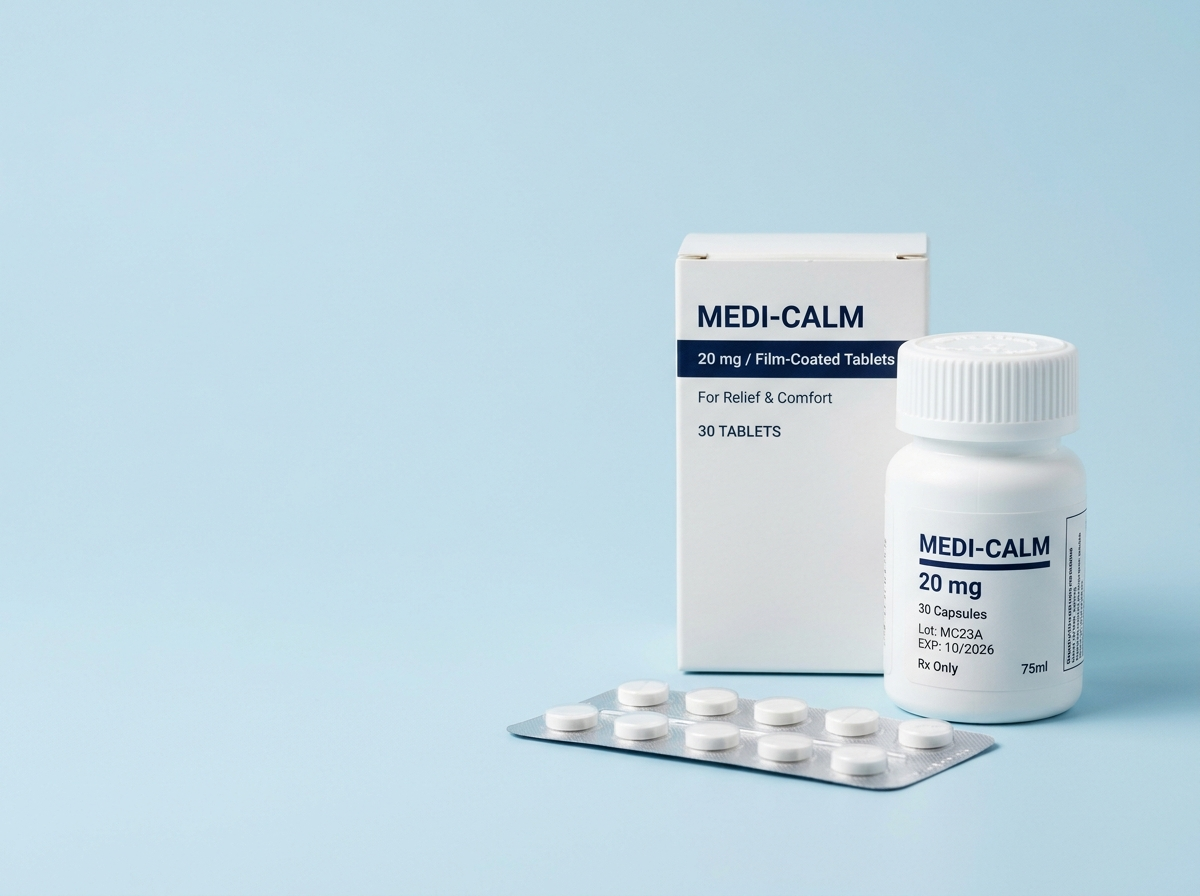
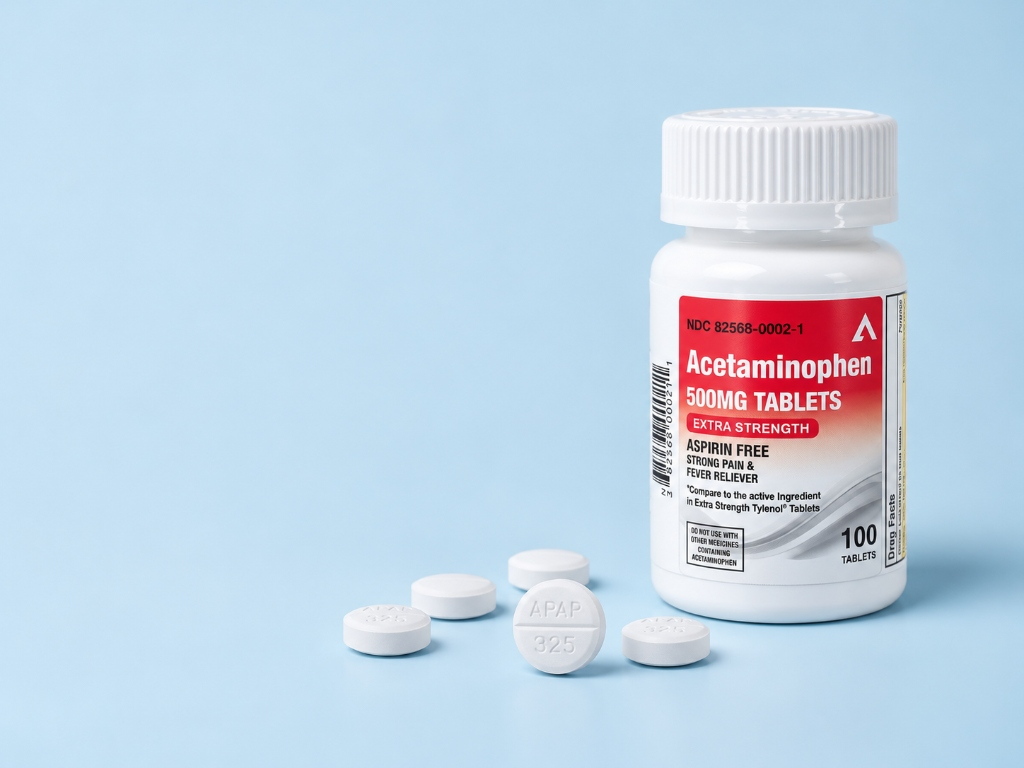
Update background image of Evaluate purchasing opportunity card with new Acetaminophen bottle and tablets photo

Changed region(s): [[0.3125, 0.125, 1.0, 0.9062]]

diff --git a/frontend/index.html b/frontend/index.html
@@ -1598,7 +1598,7 @@ h1,h2,h3,h4,.d{font-family:var(--sans);font-weight:300;letter-spacing:-.03em}
     width:100%;
     height:190px;
     object-fit:cover;
-    object-position:85% center;
+    object-position:78% center;
     display:block;
   }
   .fcard.eval-card .eval-action{
@@ -1976,7 +1976,7 @@ h1,h2,h3,h4,.d{font-family:var(--sans);font-weight:300;letter-spacing:-.03em}
         <p>Access competitive wholesale pricing, reliable inventory availability, and flexible order terms tailored to your community pharmacy.</p>
       </div>
       <div class="eval-image-mobile">
-        <img src="src/assets/eval-purchasing-opportunity.jpg" alt="Pharmaceutical wholesale products">
+        <img src="src/assets/eval-purchasing-opportunity.jpg" alt="Acetaminophen 500mg tablets bottle and wholesale generic medications">
       </div>
       <div class="eval-action">
         <a href="catalog.html" class="btn-red">Explore Products</a>
